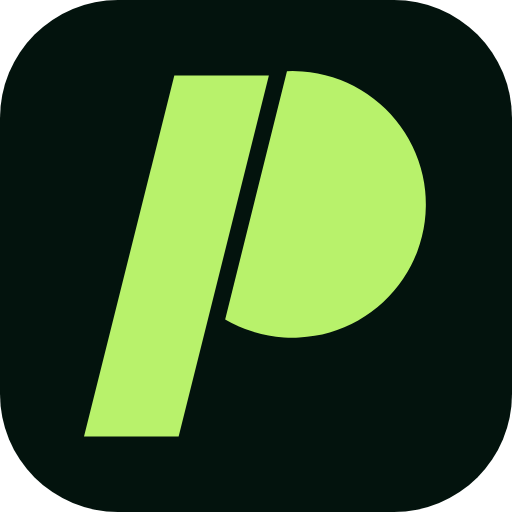
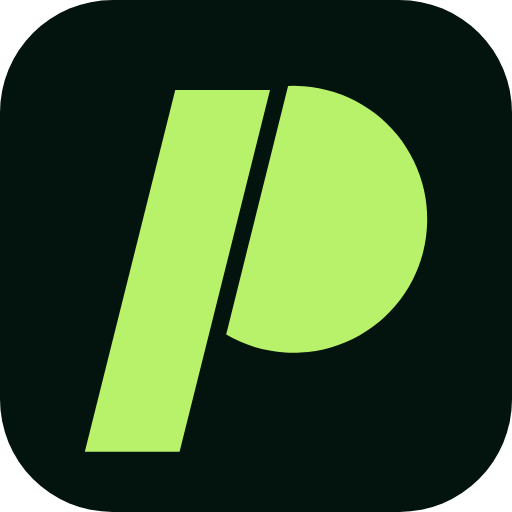
Ícones: P centralizado opticamente (descido ~3%), sem mexer no tamanho
Claude-Session: https://claude.ai/code/session_012L6tXV7kD8WjQf9QL9ukK3

diff --git a/sw.js b/sw.js
@@ -1,4 +1,4 @@
-const CACHE='opeladeiro-v23';
+const CACHE='opeladeiro-v24';
 const CORE=['/','/index.html','/manifest.webmanifest','/config.js','/vendor/supabase.js','/icons/icon-192.png','/icons/icon-512.png','/icons/apple-touch-icon.png'];
 self.addEventListener('install',e=>{e.waitUntil(caches.open(CACHE).then(c=>c.addAll(CORE)).then(()=>self.skipWaiting()));});
 self.addEventListener('activate',e=>{e.waitUntil(caches.keys().then(ks=>Promise.all(ks.filter(k=>k!==CACHE).map(k=>caches.delete(k)))).then(()=>self.clients.claim()));});
